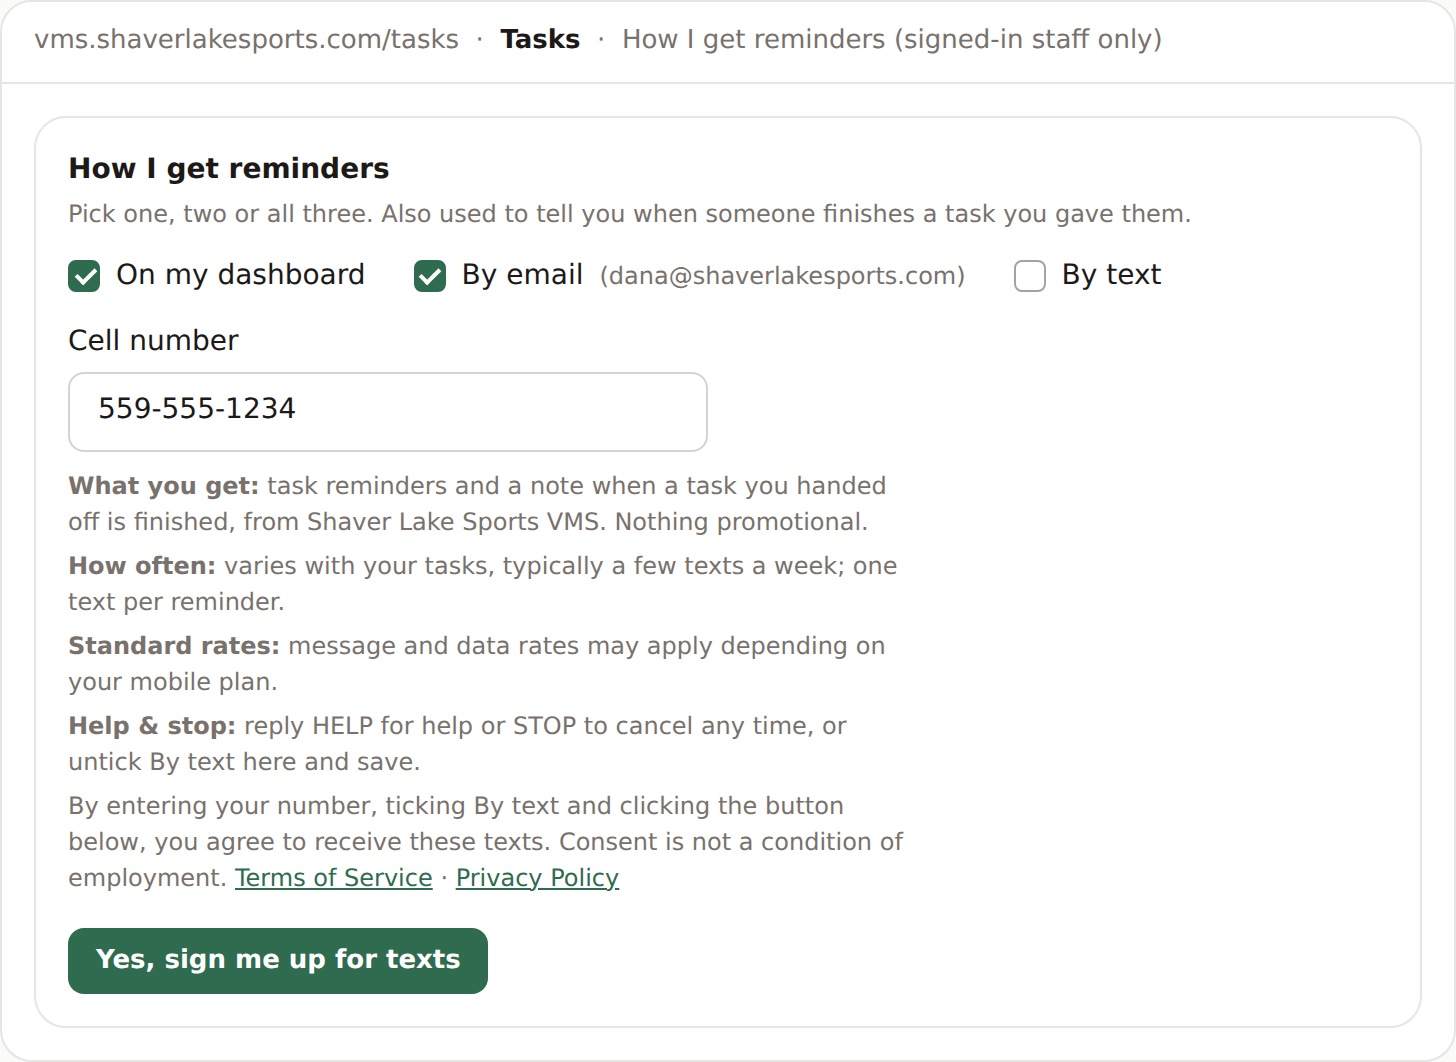
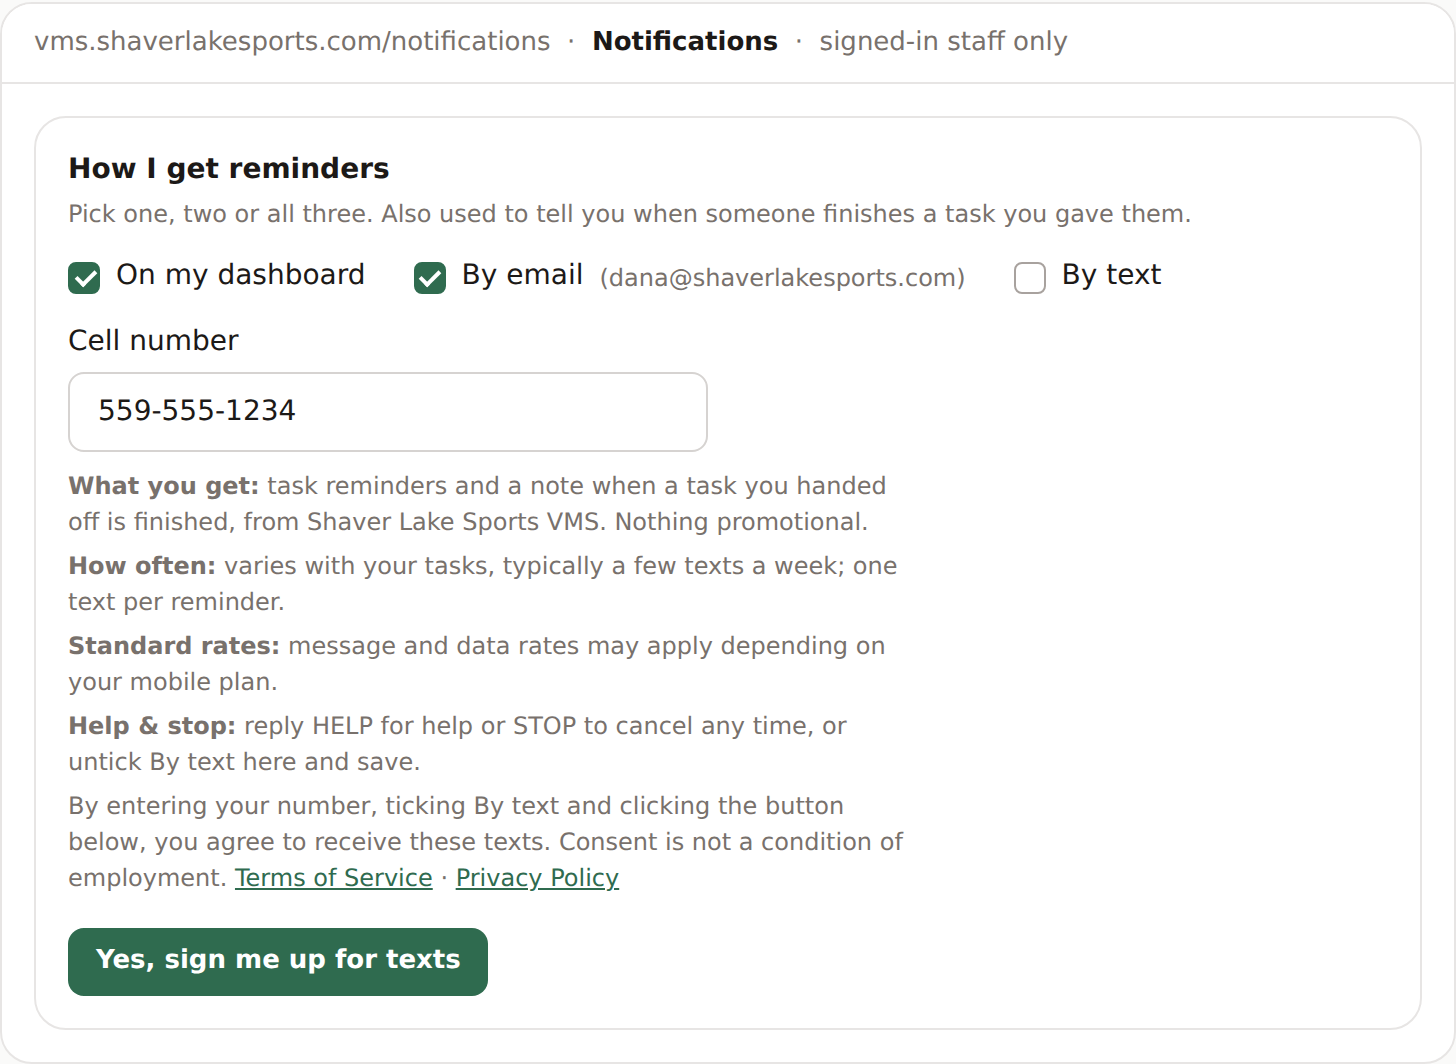
Notifications page (name menu + Settings tab) holds the reminder choices; Tasks links to it; static /sms/ and /brand/ never rewritten to the app
Claude-Session: https://claude.ai/code/session_01UJZZkunUxrQ4PFQwABNutY

diff --git a/src/pages/tasks/TasksPage.tsx b/src/pages/tasks/TasksPage.tsx
@@ -6,13 +6,13 @@ import { useAuth } from '@/hooks/useAuth'
 import { useViewAs } from '@/hooks/useViewAs'
 import { useTasksQuery } from '@/hooks/useTasksQuery'
 import { useTableSort } from '@/hooks/useTableSort'
-import { deleteTask, getTask, listTasks, saveReminderSettings, type TaskRow, type TaskView } from '@/services/tasks'
+import { deleteTask, getTask, listTasks, type TaskRow, type TaskView } from '@/services/tasks'
 import { aboutText, dateText, dueState, dueText, remindText, repeatLabel, todayLocal } from '@/lib/tasks'
 import { ROUTES } from '@/lib/constants'
 import { cn, errorMessage } from '@/lib/utils'
 import { PageHeader } from '@/components/shared/PageHeader'
 import { SortHeader } from '@/components/shared/SortHeader'
-import { Alert, Button, Input, Spinner } from '@/components/ui'
+import { Alert, Button, Spinner } from '@/components/ui'
 import { TaskDialog } from '@/components/tasks/TaskDialog'
 import { AboutLinks, DoneButton } from '@/components/tasks/TaskList'
 
@@ -137,67 +137,10 @@ export default function TasksPage() {
           </div>
         )}
 
-      {isMe ? <ReminderSettings /> : null}
+      {isMe ? <p className="mt-6 text-sm text-stone-600"><Link to={ROUTES.notifications} className="text-brand hover:underline">Change how you get reminders</Link> (dashboard, email, text).</p> : null}
       {adding ? <TaskDialog onClose={() => setAdding(false)} /> : null}
       {open ? <TaskDialog task={open} onClose={() => { setOpen(null); if (linked) { const next = new URLSearchParams(params); next.delete('task'); setParams(next, { replace: true }) } }} /> : null}
       <p className="mt-6 text-xs text-stone-500">Tasks also show on the <Link to={ROUTES.dashboard} className="text-brand hover:underline">dashboard</Link>.</p>
     </div>
-  )
-}
-
-/** How I get reminders (Dana, Oct 11): dashboard, email and/or text, any mix; dashboard + email to start. */
-function ReminderSettings() {
-  const { profile, refreshProfile } = useAuth()
-  const [dash, setDash] = useState(profile?.remind_dashboard ?? true)
-  const [email, setEmail] = useState(profile?.remind_email ?? true)
-  const [text, setText] = useState(profile?.remind_text ?? false)
-  const [phone, setPhone] = useState(profile?.mobile_phone ?? '')
-  const [busy, setBusy] = useState(false)
-  if (!profile) return null
-  const changed = dash !== profile.remind_dashboard || email !== profile.remind_email || text !== profile.remind_text || (phone.trim() || null) !== profile.mobile_phone
-  async function save() {
-    if (text && phone.replace(/\D/g, '').length < 10) { toast.error('Add your cell number for texts'); return }
-    setBusy(true)
-    try {
-      await saveReminderSettings(profile!.id, { remind_dashboard: dash, remind_email: email, remind_text: text, mobile_phone: phone.trim() || null })
-      await refreshProfile()
-      toast.success('Reminder settings saved')
-    } catch (e) {
-      toast.error(errorMessage(e))
-    } finally {
-      setBusy(false)
-    }
-  }
-  const box = 'size-4 accent-brand'
-  return (
-    <section aria-labelledby="remind-settings" className="mt-6 rounded-2xl border border-stone-200 bg-white p-4">
-      <h2 id="remind-settings" className="text-sm font-semibold text-stone-900">How I get reminders</h2>
-      <p className="mt-0.5 text-xs text-stone-500">Pick one, two or all three. Also used to tell you when someone finishes a task you gave them.</p>
-      <div className="mt-3 flex flex-wrap gap-x-6 gap-y-2 text-sm text-stone-800">
-        <label className="flex items-center gap-2"><input type="checkbox" className={box} checked={dash} onChange={(e) => setDash(e.target.checked)} /> On my dashboard</label>
-        <label className="flex items-center gap-2"><input type="checkbox" className={box} checked={email} onChange={(e) => setEmail(e.target.checked)} /> By email <span className="text-xs text-stone-500">({profile.email})</span></label>
-        <label className="flex items-center gap-2"><input type="checkbox" className={box} checked={text} onChange={(e) => setText(e.target.checked)} /> By text</label>
-      </div>
-      {text ? (
-        <div className="mt-3 max-w-xs">
-          <label htmlFor="remind-phone" className="block text-sm font-medium text-stone-800">Cell number</label>
-          <Input id="remind-phone" type="tel" inputMode="tel" autoComplete="tel" value={phone} onChange={(e) => setPhone(e.target.value)} placeholder="559-555-1234" className="mt-1" />
-          <div className="mt-2 space-y-1 text-xs text-stone-500">
-            <p><b>What you get:</b> task reminders and a note when a task you handed off is finished, from Shaver Lake Sports VMS. Nothing promotional.</p>
-            <p><b>How often:</b> varies with your tasks, typically a few texts a week; one text per reminder.</p>
-            <p><b>Standard rates:</b> message and data rates may apply depending on your mobile plan.</p>
-            <p><b>Help &amp; stop:</b> reply HELP for help or STOP to cancel any time, or untick By text here and save.</p>
-            <p>
-              By entering your number, ticking By text and clicking the button below, you agree to receive these texts. Consent is not a condition of employment.{' '}
-              <a href="/sms/terms.html" target="_blank" rel="noreferrer" className="text-brand underline">Terms of Service</a> ·{' '}
-              <a href="/sms/privacy.html" target="_blank" rel="noreferrer" className="text-brand underline">Privacy Policy</a>
-            </p>
-          </div>
-        </div>
-      ) : null}
-      <Button size="sm" className="mt-3" disabled={!changed} loading={busy} onClick={() => void save()}>
-        {text && !profile.remind_text ? 'Yes, sign me up for texts' : 'Save'}
-      </Button>
-    </section>
   )
 }

diff --git a/src/components/tasks/ReminderSettings.tsx b/src/components/tasks/ReminderSettings.tsx
@@ -1,0 +1,63 @@
+import { useState } from 'react'
+import toast from 'react-hot-toast'
+import { useAuth } from '@/hooks/useAuth'
+import { saveReminderSettings } from '@/services/tasks'
+import { errorMessage } from '@/lib/utils'
+import { Button, Input } from '@/components/ui'
+
+/** How I get reminders (Dana, Oct 11): dashboard, email and/or text, any mix; dashboard + email to start. */
+export function ReminderSettings() {
+  const { profile, refreshProfile } = useAuth()
+  const [dash, setDash] = useState(profile?.remind_dashboard ?? true)
+  const [email, setEmail] = useState(profile?.remind_email ?? true)
+  const [text, setText] = useState(profile?.remind_text ?? false)
+  const [phone, setPhone] = useState(profile?.mobile_phone ?? '')
+  const [busy, setBusy] = useState(false)
+  if (!profile) return null
+  const changed = dash !== profile.remind_dashboard || email !== profile.remind_email || text !== profile.remind_text || (phone.trim() || null) !== profile.mobile_phone
+  async function save() {
+    if (text && phone.replace(/\D/g, '').length < 10) { toast.error('Add your cell number for texts'); return }
+    setBusy(true)
+    try {
+      await saveReminderSettings(profile!.id, { remind_dashboard: dash, remind_email: email, remind_text: text, mobile_phone: phone.trim() || null })
+      await refreshProfile()
+      toast.success('Reminder settings saved')
+    } catch (e) {
+      toast.error(errorMessage(e))
+    } finally {
+      setBusy(false)
+    }
+  }
+  const box = 'size-4 accent-brand'
+  return (
+    <section aria-labelledby="remind-settings" className="rounded-2xl border border-stone-200 bg-white p-4">
+      <h2 id="remind-settings" className="text-sm font-semibold text-stone-900">How I get reminders</h2>
+      <p className="mt-0.5 text-xs text-stone-500">Pick one, two or all three. Also used to tell you when someone finishes a task you gave them.</p>
+      <div className="mt-3 flex flex-wrap gap-x-6 gap-y-2 text-sm text-stone-800">
+        <label className="flex items-center gap-2"><input type="checkbox" className={box} checked={dash} onChange={(e) => setDash(e.target.checked)} /> On my dashboard</label>
+        <label className="flex items-center gap-2"><input type="checkbox" className={box} checked={email} onChange={(e) => setEmail(e.target.checked)} /> By email <span className="text-xs text-stone-500">({profile.email})</span></label>
+        <label className="flex items-center gap-2"><input type="checkbox" className={box} checked={text} onChange={(e) => setText(e.target.checked)} /> By text</label>
+      </div>
+      {text ? (
+        <div className="mt-3 max-w-xs">
+          <label htmlFor="remind-phone" className="block text-sm font-medium text-stone-800">Cell number</label>
+          <Input id="remind-phone" type="tel" inputMode="tel" autoComplete="tel" value={phone} onChange={(e) => setPhone(e.target.value)} placeholder="559-555-1234" className="mt-1" />
+          <div className="mt-2 space-y-1 text-xs text-stone-500">
+            <p><b>What you get:</b> task reminders and a note when a task you handed off is finished, from Shaver Lake Sports VMS. Nothing promotional.</p>
+            <p><b>How often:</b> varies with your tasks, typically a few texts a week; one text per reminder.</p>
+            <p><b>Standard rates:</b> message and data rates may apply depending on your mobile plan.</p>
+            <p><b>Help &amp; stop:</b> reply HELP for help or STOP to cancel any time, or untick By text here and save.</p>
+            <p>
+              By entering your number, ticking By text and clicking the button below, you agree to receive these texts. Consent is not a condition of employment.{' '}
+              <a href="/sms/terms.html" target="_blank" rel="noreferrer" className="text-brand underline">Terms of Service</a> ·{' '}
+              <a href="/sms/privacy.html" target="_blank" rel="noreferrer" className="text-brand underline">Privacy Policy</a>
+            </p>
+          </div>
+        </div>
+      ) : null}
+      <Button size="sm" className="mt-3" disabled={!changed} loading={busy} onClick={() => void save()}>
+        {text && !profile.remind_text ? 'Yes, sign me up for texts' : 'Save'}
+      </Button>
+    </section>
+  )
+}

diff --git a/src/App.tsx b/src/App.tsx
@@ -20,6 +20,7 @@ const VendorForm = lazy(() => import('@/pages/vendors/VendorForm'))
 const BulkImportPage = lazy(() => import('@/pages/vendors/BulkImportPage'))
 const WorkingOrdersPage = lazy(() => import('@/pages/mail/WorkingOrdersPage'))
 const TeamPage = lazy(() => import('@/pages/TeamPage'))
+const NotificationsPage = lazy(() => import('@/pages/NotificationsPage'))
 const ReviewQueue = lazy(() => import('@/pages/review/ReviewQueue'))
 const RepGroupList = lazy(() => import('@/pages/rep-groups/RepGroupList'))
 const WorldwideContacts = lazy(() => import('@/pages/contacts/WorldwideContacts'))
@@ -118,6 +119,7 @@ export default function App() {
                 <Route path={ROUTES.mailWith} element={<MailWithPage />} />
                 <Route path={ROUTES.team} element={<TeamPage />} />
                 <Route path={ROUTES.tasks} element={<TasksPage />} />
+                <Route path={ROUTES.notifications} element={<NotificationsPage />} />
                 <Route path={`${ROUTES.mail}/:id`} element={<ThreadPage />} />
                 <Route path={ROUTES.mergeReport} element={<MergeReport />} />
                 <Route path={ROUTES.orders} element={<OrderList />} />
@@ -149,6 +151,7 @@ export default function App() {
                   <Route path="organization" element={<OrganizationSettings />} />
                   <Route path="stores" element={<StoreSettings />} />
                   <Route path="users" element={<UserSettings />} />
+                  <Route path="notifications" element={<NotificationsPage embedded />} />
                   <Route path="worldwide" element={<PartnerSettings />} />
                   <Route path="review-assignments" element={<ReviewAssignmentSettings />} />
                   <Route path="mail" element={<MailSettings />} />

diff --git a/public/sms/index.html b/public/sms/index.html
@@ -11,10 +11,10 @@
   <header><img src="/brand/slsi-logo.png" alt="Shaver Lake Sports" /><strong>RetailHQ VMS · Text reminders</strong></header>
   <main>
     <h1>How staff opt in to text reminders</h1>
-    <p class="lead">RetailHQ VMS is the internal vendor management app of Shaver Lake Sports Inc. Only our employees have logins. Each employee chooses, on their own reminder settings page inside VMS (behind the login), whether task reminders reach them by text. This is what that page shows.</p>
+    <p class="lead">RetailHQ VMS is the internal vendor management app of Shaver Lake Sports Inc. Only our employees have logins. Each employee chooses, on their own Notifications page inside VMS (behind the login), whether task reminders reach them by text. This is what that page shows.</p>
 
     <div class="shot" id="shot">
-      <div class="bar">vms.shaverlakesports.com/tasks &nbsp;·&nbsp; <b>Tasks</b> &nbsp;·&nbsp; How I get reminders (signed-in staff only)</div>
+      <div class="bar">vms.shaverlakesports.com/notifications &nbsp;·&nbsp; <b>Notifications</b> &nbsp;·&nbsp; signed-in staff only</div>
       <div class="box">
         <h2>How I get reminders</h2>
         <p class="sub">Pick one, two or all three. Also used to tell you when someone finishes a task you gave them.</p>

diff --git a/src/pages/NotificationsPage.tsx b/src/pages/NotificationsPage.tsx
@@ -1,0 +1,19 @@
+import { ROUTES } from '@/lib/constants'
+import { PageHeader } from '@/components/shared/PageHeader'
+import { BackLink } from '@/components/shared/BackLink'
+import { ReminderSettings } from '@/components/tasks/ReminderSettings'
+
+/**
+ * Notifications (Dana, Oct 12): each person's own reminder choices, reached from the name menu at the top right.
+ * Admins also see it as a Settings tab (`embedded`), where the Settings page already provides the header and Back link.
+ */
+export default function NotificationsPage({ embedded = false }: { embedded?: boolean }) {
+  if (embedded) return <ReminderSettings />
+  return (
+    <div>
+      <BackLink fallback={ROUTES.dashboard} fallbackLabel="Dashboard" />
+      <PageHeader title="Notifications" description="How task reminders reach you: on your dashboard, by email and/or by text." />
+      <ReminderSettings />
+    </div>
+  )
+}

diff --git a/src/components/layout/Topbar.tsx b/src/components/layout/Topbar.tsx
@@ -111,6 +111,16 @@ export function Topbar({ onOpenMenu }: { onOpenMenu: () => void }) {
                 type="button"
                 onClick={() => {
                   close()
+                  navigate(ROUTES.notifications)
+                }}
+                className="flex w-full items-center gap-2 rounded-lg px-3 py-2 text-sm text-stone-700 hover:bg-stone-100"
+              >
+                <Bell className="size-4" aria-hidden="true" /> Notifications
+              </button>
+              <button
+                type="button"
+                onClick={() => {
+                  close()
                   navigate(ROUTES.resetPassword)
                 }}
                 className="flex w-full items-center gap-2 rounded-lg px-3 py-2 text-sm text-stone-700 hover:bg-stone-100"

diff --git a/src/pages/settings/tabs.ts b/src/pages/settings/tabs.ts
@@ -2,6 +2,7 @@ export const SETTINGS_TABS = [
   { slug: 'organization', label: 'Organization' },
   { slug: 'stores', label: 'Stores' },
   { slug: 'users', label: 'Users' },
+  { slug: 'notifications', label: 'Notifications' },
   { slug: 'review-assignments', label: 'Review assignments' },
   { slug: 'payment-terms', label: 'Payment terms' },
   { slug: 'categories', label: 'Categories' },

diff --git a/src/lib/constants.ts b/src/lib/constants.ts
@@ -85,6 +85,7 @@ export const ROUTES = {
   mailWith: '/mail/with',
   team: '/team',
   tasks: '/tasks',
+  notifications: '/notifications',
   lsPos: '/ls-pos',
   help: '/help',
   mergeReport: '/review/merges',

diff --git a/docs/help/tasks--reminder-settings.md b/docs/help/tasks--reminder-settings.md
@@ -7,8 +7,8 @@ who: Everyone
 Each person picks how they get task reminders: on the dashboard, by email, by text, or any mix.
 
 ## How to
-1. Click **Tasks** in the menu.
-2. Scroll to **How I get reminders** at the bottom.
+1. Click your name at the top right, then **Notifications**. (Dana can also use **Settings → Notifications**. The Tasks page has a link too.)
+2. Find the **How I get reminders** box.
 3. Tick **On my dashboard**, **By email** and/or **By text**.
 4. For texts, type your **Cell number**. The small print under it says what you are agreeing to: reminder texts only, how often, message and data rates may apply, reply STOP or untick **By text** to stop, with links to the Terms and Privacy Policy.
 5. Click **Yes, sign me up for texts** (it says **Save** when you are only changing the other boxes).
@@ -18,3 +18,4 @@ Each person picks how they get task reminders: on the dashboard, by email, by te
 - The same choices are used when someone finishes a task you gave them.
 - Texts start working once the texting service is set up; until then the Tasks page shows "not all sent" under the reminder time.
 - The public page vms.shaverlakesports.com/sms/ explains the text opt-in (needed by the texting service).
+- **By text** starts unticked for everyone; nobody gets texts until they tick it themselves and enter their own number.

diff --git a/docs/decisions.md b/docs/decisions.md
@@ -1805,3 +1805,11 @@ file (same PO, else same vendor ±5 days and total) gets the email, file (Our or
   are still coming); older than 4 months they note "Added from sent mail, check status." The scan also reads sent mail
   in the personal mailboxes (Jarrett sent orders from jarrett@ for a while); only the order is shared, the email stays
   private. Jarrett's mailbox is pulled back 12 months (it started at Jul 13).
+
+## Oct 12 — Notifications page; text reminder consent for Twilio (Dana: "Go")
+- Each person's reminder choices (dashboard, email, text, cell number) live on **Notifications**, under the name menu at the
+  top right. Dana also has it as **Settings → Notifications**. The Tasks page keeps a link to it.
+- **By text** starts unticked for everyone. Ticking it shows the full consent text (what, how often, rates, HELP/STOP, links
+  to Terms and Privacy) and the button reads "Yes, sign me up for texts". Every text ends "Reply STOP to stop."
+- Public pages for the Twilio toll-free verification: /sms/ (opt-in proof, with /sms/opt-in.png), /sms/terms.html,
+  /sms/privacy.html. Vercel no longer rewrites /sms/ and /brand/ to the app (that is why /sms/ asked for a login).
